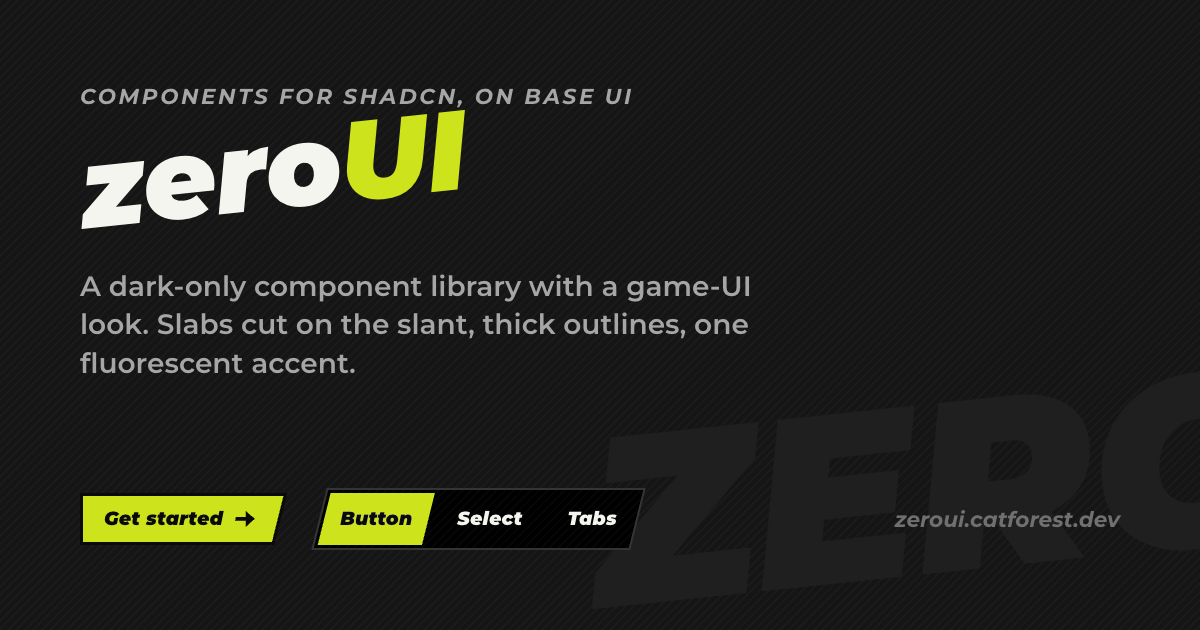
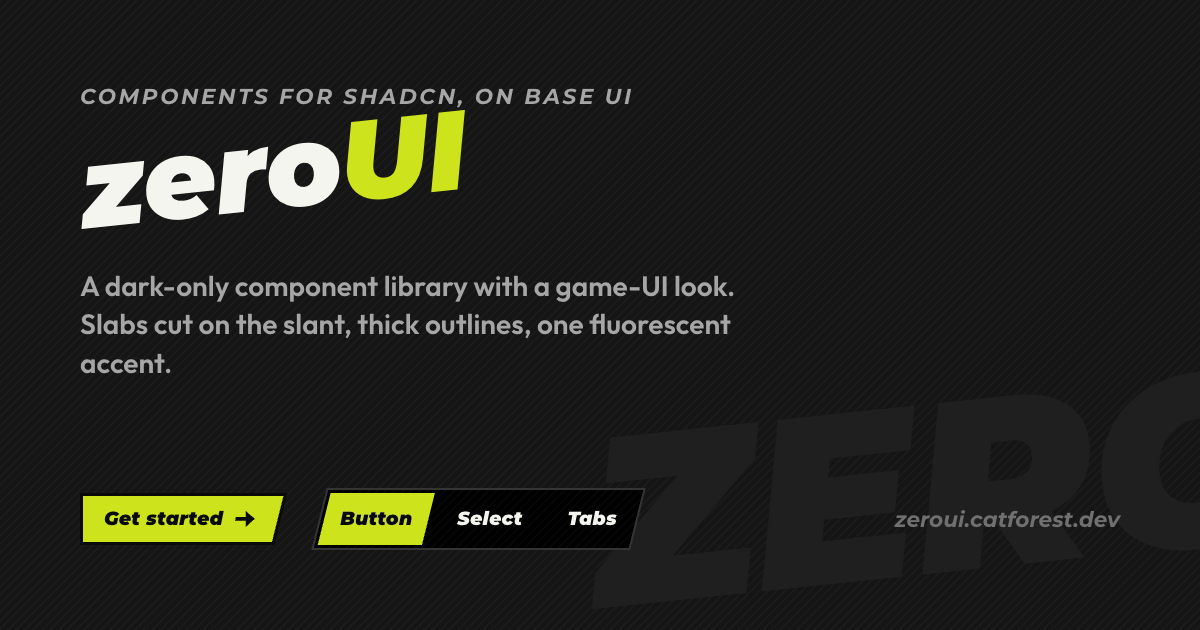
feat(type): a text face beside the display face
Outfit (--font-zero-text) now sets what is read or typed: running text,
descriptions, the values in Input and the Select trigger, the showcase's job
titles. Montserrat (--font-zero) keeps everything that leans: labels,
buttons, tabs, Select rows, headings. Outfit has no italic, so it is always
upright, and placeholders lost their italic with it.

The registry ships Outfit as @zeroui/font-text, a new dependency of the
foundation; @zeroui/font stays Montserrat so v0.1.0 installs keep working.
Installing from the local registry into a fresh project brings both fonts
and both tokens, and builds. The share card is recaptured, and og:capture
now waits for Chrome to exit before removing its profile (it failed one run
in three on a directory still being written).

Changed region(s): [[0.0617, 0.4222, 0.6167, 0.6032]]

diff --git a/src/components/zero/select.tsx b/src/components/zero/select.tsx
@@ -25,7 +25,7 @@ const Select = SelectPrimitive.Root;
 const triggerVariants = cva(
   [
     "group/trigger slab flex w-full min-w-0 items-center gap-2 text-left outline-none select-none",
-    "font-semibold font-zero",
+    "font-semibold font-zero-text",
     "[--slab-fill:var(--color-zero-void)] [--slab-line:var(--color-zero-line)] [--slab-ink:var(--color-zero-text)]",
     "hover:not-focus-visible:not-data-popup-open:[--slab-line:var(--color-zero-text-3)]",
     "focus-visible:[--slab-line:var(--color-zero-focus)] focus-visible:[--slab-gap:var(--zero-stroke-thin)] focus-visible:[--slab-gap-fill:var(--color-zero-ink)]",
@@ -86,7 +86,7 @@ function SelectValue({ className, ...props }: SelectPrimitive.Value.Props) {
       data-slot="select-value"
       className={cn(
         "min-w-0 flex-1 truncate",
-        "in-data-placeholder:text-zero-text-3 in-data-placeholder:italic",
+        "in-data-placeholder:text-zero-text-3",
         className,
       )}
       {...props}

diff --git a/src/styles/zero/tokens.css b/src/styles/zero/tokens.css
@@ -33,9 +33,14 @@
   --color-zero-danger-hi: #ff6a4f;
 
   /* ── Type ───────────────────────────────────────────────────────────────
-   * One heavy geometric sans with a true italic. Labels are 800–900 and lean with the slant. */
+   * Two faces. The display face, a heavy geometric sans with a true italic, sets everything that
+   * leans: labels, buttons, tabs, headings, 800–900 italic. The text face, compact and orderly,
+   * sets what is read or typed: running text, descriptions, the values in inputs. It has no
+   * italic of its own, so it is always set upright. */
   --font-zero:
     var(--font-montserrat), "Montserrat", ui-sans-serif, system-ui, sans-serif;
+  --font-zero-text:
+    var(--font-outfit), "Outfit", ui-sans-serif, system-ui, sans-serif;
 
   --text-zero-xs: 0.75rem; /* 12 */
   --text-zero-xs--line-height: 1rem;

diff --git a/src/app/layout.tsx b/src/app/layout.tsx
@@ -1,5 +1,5 @@
 import type { Metadata } from "next";
-import { Martian_Mono, Montserrat } from "next/font/google";
+import { Martian_Mono, Montserrat, Outfit } from "next/font/google";
 import "./globals.css";
 import { Providers } from "@/components/providers";
 import { SITE_URL } from "@/lib/site";
@@ -11,6 +11,12 @@ const montserrat = Montserrat({
   variable: "--font-montserrat",
   subsets: ["latin"],
   style: ["normal", "italic"],
+});
+
+// zeroUI's text face (tokens.css: --font-zero-text): running text and typed values, always upright.
+const outfit = Outfit({
+  variable: "--font-outfit",
+  subsets: ["latin"],
 });
 
 // The docs' code face: wide and geometric, so code sits with Montserrat's width.
@@ -42,6 +48,7 @@ export default function RootLayout({ children }: LayoutProps<"/">) {
         "h-full",
         "antialiased",
         montserrat.variable,
+        outfit.variable,
         martianMono.variable,
         "font-sans",
       )}

diff --git a/src/components/zero/input.tsx b/src/components/zero/input.tsx
@@ -76,8 +76,8 @@ function Input({ className, size, cut, start, end, ...props }: InputProps) {
         className={cn(
           "h-full min-w-0 flex-1 bg-transparent px-(--input-px) outline-none",
           // inputs inherit neither colour nor size by default
-          "font-semibold font-zero text-inherit [font-size:inherit] [line-height:inherit] caret-zero-accent",
-          "placeholder:text-zero-text-3 placeholder:italic",
+          "font-semibold font-zero-text text-inherit [font-size:inherit] [line-height:inherit] caret-zero-accent",
+          "placeholder:text-zero-text-3",
           "selection:bg-zero-accent selection:text-zero-ink",
           // keep the browser's autofill from painting over the well
           "autofill:shadow-[inset_0_0_0_10em_var(--color-zero-void)] autofill:[-webkit-text-fill-color:var(--color-zero-text)]",

diff --git a/src/app/docs/page.tsx b/src/app/docs/page.tsx
@@ -53,8 +53,9 @@ export default function GettingStartedPage() {
             The first component also brings the <strong>foundation</strong>: the
             tokens, the motion and the slab are written into your stylesheet,{" "}
             <code>cn</code> and the motion timings land in{" "}
-            <code>lib/zero/</code>, and Montserrat is loaded in your layout.
-            Components land in <code>components/zero/</code>.
+            <code>lib/zero/</code>, and Montserrat (the display face) and Outfit
+            (the text face) are loaded in your layout. Components land in{" "}
+            <code>components/zero/</code>.
           </p>
         </Prose>
       </DocSection>

diff --git a/src/app/_showcase/job-board.tsx b/src/app/_showcase/job-board.tsx
@@ -215,7 +215,7 @@ export function JobBoard() {
                           <span className="font-bold font-zero text-zero-text-3 text-zero-xs uppercase italic tracking-[0.08em]">
                             {districts[job.district]}
                           </span>
-                          <span className="line-clamp-2 font-extrabold font-zero text-zero-md sm:truncate">
+                          <span className="line-clamp-2 font-bold font-zero-text text-zero-md sm:truncate">
                             {job.title}
                           </span>
                         </div>

diff --git a/src/components/zero/field.tsx b/src/components/zero/field.tsx
@@ -38,7 +38,7 @@ function FieldDescription({
     <FieldPrimitive.Description
       data-slot="field-description"
       className={cn(
-        "font-medium font-zero text-zero-text-2 text-zero-xs",
+        "font-medium font-zero-text text-zero-text-2 text-zero-xs",
         className,
       )}
       {...props}

diff --git a/src/app/globals.css b/src/app/globals.css
@@ -8,7 +8,7 @@
 @theme inline {
   --color-background: var(--background);
   --color-foreground: var(--foreground);
-  --font-sans: var(--font-zero);
+  --font-sans: var(--font-zero-text);
   --font-mono: var(--font-martian-mono);
   --font-heading: var(--font-zero);
   --color-sidebar-ring: var(--sidebar-ring);

diff --git a/docs/plan.md b/docs/plan.md
@@ -111,6 +111,16 @@ Decisions land here with their date, in the commit that acts on them.
   L1 21/21 against zeroui.catforest.dev, the sitemap pushed to IndexNow (202), and yPulse switched
   to `seo: public`. Submitting the sitemap in Search Console and Bing is the author's step.
 
+- **2026-10-24 — two faces** (amends "one typeface: Montserrat"). The author likes Outfit's
+  compact, orderly letters, but Outfit has no italic, and zeroUI's labels are 800–900 italics. So
+  each face sets what it is good at: Montserrat (`--font-zero`, the display face) everything that
+  leans — labels, buttons, tabs, Select rows, headings; Outfit (`--font-zero-text`, the text face)
+  what is read or typed — running text, descriptions, the values in Input and the Select trigger,
+  job titles on the showcase. The text face is never italic (no browser-drawn obliques), so
+  placeholders became upright. The registry ships Outfit as `@zeroui/font-text`, a dependency of
+  the foundation; `@zeroui/font` stays Montserrat, so v0.1.0 installs keep working. The docs'
+  code is Martian Mono, a site choice outside the library.
+
 ## Phases
 
 Each phase has an exit test; the next one does not start until it passes.

diff --git a/CHANGELOG.md b/CHANGELOG.md
@@ -8,6 +8,10 @@ All notable changes to zeroUI are documented here. The format is based on
 
 ### Changed
 
+- **Two typefaces** — what you read or type (running text, descriptions, the
+  values in Input and Select) is now set in Outfit, compact and orderly, while
+  labels, buttons and tabs keep Montserrat's heavy italics. Installing any
+  component brings both fonts; placeholders are now upright.
 - **Code in Martian Mono** — the docs' code blocks and install commands are
   set in a wide, geometric monospace that sits with the heavy italic labels,
   instead of a thin, neutral one.
